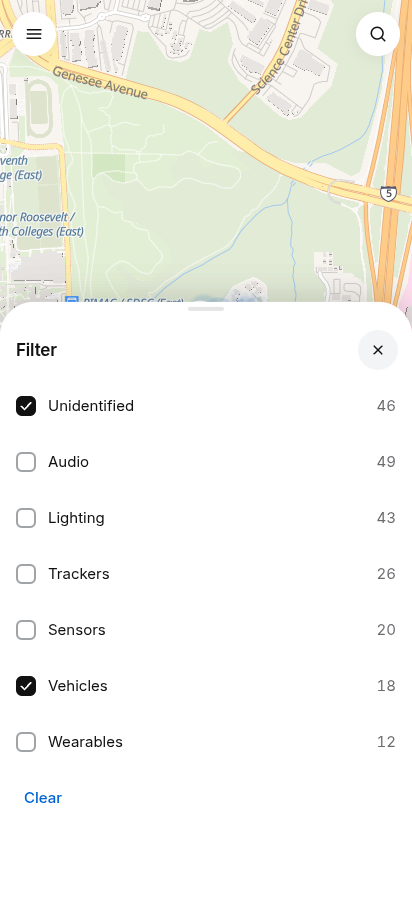
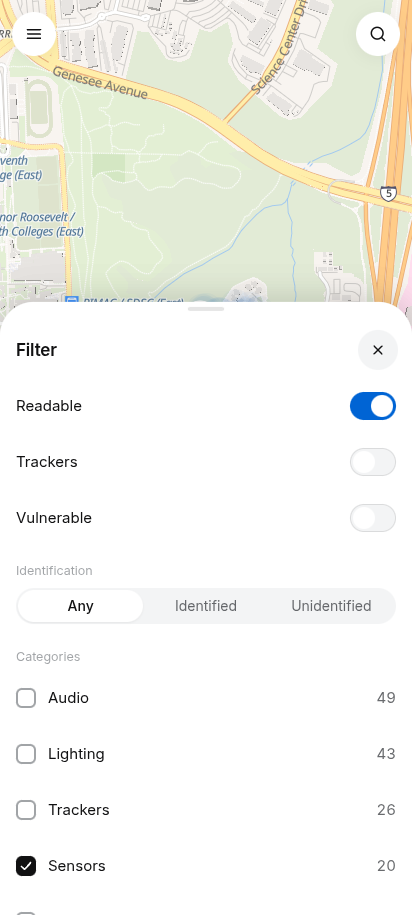
design/ui-v2: Filter button in the Discover header; preset chips All / Readable / Trackers / Vulnerable; new Filter sheet
The Filter button (the view switch's IconButton, funnel) sits in the header's right column, mirroring the view
switch and centered under the search button; with any filter on it takes the selected style and a count. It
pushes the Filter sheet in both views. The list view's chip row is All plus the curated presets (Readable: the
wiki page has a decoder; Trackers; Vulnerable: the page links a known vulnerability), multi-select, AND with
each other and with the sheet; All clears everything. The Filter sheet: the presets as switches (synced with
the chips), Identification [Any | Identified | Unidentified], Categories (checkboxes with counts, any-of, by
count), Clear; it updates in place and applies live. data.js: readable / vulnerable product flags (Govee,
Xiaomi, SwitchBot; Tesla) on devices; getCategoryCounts(scope, { hideUnnamedApple }). Card and sheet counts
respect the display filter (G-12). Filters reset when the session view changes.

diff --git a/cluetooth-android/design/ui-v2/app.js b/cluetooth-android/design/ui-v2/app.js
@@ -113,18 +113,23 @@
     /** Chip and ChipRow. */
     chip: ({ label, on, action, value }) =>
       `<button class="chip ${on ? "on" : ""}" data-action="${action}" data-value="${esc(value)}" aria-pressed="${on}">${esc(label)}</button>`,
-    /** The list view's chip row: the Filter chip (round; selected style and a count while categories are selected),
-     *  All, then cats (Unidentified, selected categories outside the top ones, the top ones). selected: category ids. */
-    chipRow: (cats, selected, cls = "") =>
-      `<div class="chips ${cls}"><button class="chip chip-icon ${selected.length ? "on" : ""}" data-action="filter-open" aria-label="Filter${selected.length ? `, ${selected.length} selected` : ""}">${icon("filter")}${selected.length ? `<span class="chip-count">${selected.length}</span>` : ""}</button>${
-        UI.chip({ label: "All", on: !selected.length, action: "dev-cat", value: "all" })}${
-        cats.map((c) => UI.chip({ label: c.label, on: selected.includes(c.id), action: "dev-cat", value: c.id })).join("")}</div>`,
-    /** The Filter sheet's body: every category of the scope as a checkbox row with its device count, and Clear. */
-    filterList: (cats, selected) => `<div class="filter-list">${cats.map((c) => `
-      <button class="item filter-item" role="checkbox" aria-checked="${selected.includes(c.id)}" data-action="dev-cat" data-value="${c.id}">
+    /** The list view's chip row: All (on while no filter at all; tapping it clears every filter), then the preset
+     *  filters as toggles. on: the preset ids that are on. */
+    chipRow: (on, all, cls = "") =>
+      `<div class="chips ${cls}">${UI.chip({ label: "All", on: all, action: "filter-preset", value: "all" })}${
+        PRESETS.map((p) => UI.chip({ label: p.label, on: on.includes(p.id), action: "filter-preset", value: p.id })).join("")}</div>`,
+    /** The Filter sheet's body: the presets as switches, Identification, the categories of the scope as checkbox
+     *  rows with their device counts (cats: [{ id, label, count }]), and Clear. f: { presets, ident, cats }. */
+    filterSheet: (cats, f) => `<div class="filter-sheet">
+      ${PRESETS.map((p) => `<div class="item"><span class="item-text"><span class="item-title">${p.label}</span></span>${UI.switch(f.presets.includes(p.id), "filter-preset", p.id)}</div>`).join("")}
+      <div class="sect">Identification</div>
+      <div class="filter-seg">${UI.segmented([{ id: "any", label: "Any" }, { id: "identified", label: "Identified" }, { id: "unidentified", label: "Unidentified" }], f.ident, "filter-ident")}</div>
+      <div class="sect">Categories</div>
+      <div class="filter-list">${cats.map((c) => `
+      <button class="item filter-item" role="checkbox" aria-checked="${f.cats.includes(c.id)}" data-action="filter-cat" data-value="${c.id}">
         <span class="check" aria-hidden="true"><svg viewBox="0 0 24 24"><path d="M5 12.5 10 17l9-10"/></svg></span>
         <span class="item-text"><span class="item-title">${esc(c.label)}</span></span><span class="item-end">${c.count}</span></button>`).join("")}
-      </div><div class="filter-foot"><button class="text-btn" data-action="filter-clear">Clear</button></div>`,
+      </div><div class="filter-foot"><button class="text-btn" data-action="filter-clear">Clear</button></div></div>`,
 
     /** Sparkline: the last minute, 30 samples. */
     sparkline: (h) => {
@@ -187,10 +192,12 @@
     /** DiscoverHead: the view switch (it shows the view it switches TO), then Nearby / All while recording, or
      *  This area / All for history and All sessions.
      */
-    discoverHead: ({ view, live, mode, hist = "all" }) => `${UI.iconButton({ name: view === "list" ? "grid" : "list", label: view === "list" ? "Show categories" : "Show the device list", action: "disc-view" })}
+    discoverHead: ({ view, live, mode, hist = "all", filters = 0 }) => `${UI.iconButton({ name: view === "list" ? "grid" : "list", label: view === "list" ? "Show categories" : "Show the device list", action: "disc-view" })}
          ${live ? UI.segmented([{ id: "nearby", label: "Nearby" }, { id: "all", label: "All" }], mode, "disc-mode")
            : UI.segmented([{ id: "area", label: "This area" }, { id: "all", label: "All" }], hist, "hist-mode")}
-         <span></span>`,
+         <span class="disc-filter">${UI.filterButton(filters)}</span>`,
+    /** FilterButton: the view switch's IconButton with a funnel; selected style and a count while filters are on. */
+    filterButton: (n) => `<button class="ib neutral filter-btn ${n ? "on" : ""}" data-action="filter-open" aria-label="Filter${n ? `, ${n} active` : ""}">${icon("filter")}${n ? `<span class="count-badge">${n}</span>` : ""}</button>`,
 
     /** ProductView: a product sheet's content; the background map shows the product's points. */
     productView: (p, rows) => `
@@ -304,6 +311,12 @@
   const ME = D.getMyLocation();
   const locationText = () => `${ME.lat.toFixed(5)}, ${ME.lon.toFixed(5)} ±${ME.accuracy} m`;
   const hiddenByFilter = (d) => S.settings.hideUnnamedApple && d.company === 76 && !d.name;
+  /** The preset filters (the list view's chips): curated, each a test on a device. */
+  const PRESETS = [
+    { id: "readable", label: "Readable", test: (d) => d.readable },     // its wiki page has a decoder
+    { id: "trackers", label: "Trackers", test: (d) => d.category === "trackers" },
+    { id: "vulnerable", label: "Vulnerable", test: (d) => d.vulnerable }, // its wiki page links a known vulnerability
+  ];
 
   // ---- Formatting ----
   const MONTHS = ["Jan", "Feb", "Mar", "Apr", "May", "Jun", "Jul", "Aug", "Sep", "Oct", "Nov", "Dec"];
@@ -364,17 +377,18 @@
     const sig = `${S.discView}|${S.live}`, seg = $(".seg", head);
     if (head.dataset.sig === sig && seg) setSegValue(seg, S.live ? mode : S.histMode);
     else { head.innerHTML = UI.discoverHead({ view: S.discView, live: S.live, mode, hist: S.histMode }); head.dataset.sig = sig; }
+    $(".disc-filter", head).innerHTML = UI.filterButton(filterCount());
     if (S.discView === "list") {
       const left = $(".chips", chips) ? $(".chips", chips).scrollLeft : 0; // a chip tap keeps the row where it was
-      chips.innerHTML = UI.chipRow(chipCats(), S.devCats, "inline");
+      chips.innerHTML = UI.chipRow(S.filter.presets, !filterCount(), "inline");
       $(".chips", chips).scrollLeft = left;
       body.innerHTML = `<div class="rows">${sessionRows(mode)}</div>`;
     } else {
       chips.innerHTML = "";
-      const area = areaCounts();
+      const c = cardCounts();
       const groups = D.getProducts(mode, S.session)
-        .map((g) => ({ ...g, products: g.products.filter((p) => !area || area.count[p.id])
-          .map((p) => (area ? { ...p, count: area.count[p.id], inRange: Math.min(p.inRange, area.live[p.id] || 0) } : p)) }))
+        .map((g) => ({ ...g, products: g.products.filter((p) => (mode === "all" ? c.count[p.id] : c.live[p.id]))
+          .map((p) => ({ ...p, count: c.count[p.id], inRange: Math.min(p.inRange, c.live[p.id] || 0) })) }))
         .filter((g) => g.products.length);
       body.innerHTML = groups.map(UI.categorySection).join("") || `<div class="empty">No products match</div>`;
     }
@@ -451,19 +465,19 @@
   function sessionRows(mode) {
     const byAddr = Object.fromEntries(D.getSessionDevices(S.session).map((d) => [d.addr, d]));
     return (S.area ? S.areaOrder : S.order).map((a) => byAddr[a])
-      .filter((d) => d && inArea(d.addr) && !hiddenByFilter(d) && (mode === "all" || !d.stale) && (!S.devCats.length || S.devCats.includes(d.category)))
+      .filter((d) => d && inArea(d.addr) && !hiddenByFilter(d) && (mode === "all" || !d.stale) && matchesFilter(d))
       .map((d) => UI.deviceRow(d, { spark: S.live })).join("") || `<div class="empty">No matching devices</div>`;
   }
   // ---- "This area" (history and All sessions): the sheets list only devices whose point is in the viewport ----
   // It re-filters once each time the map comes to rest after the user dragged or zoomed it (not during the move,
   // not after the app's own camera moves). Rows still in view keep their order, rows that left hide, new ones append.
   const inArea = (addr) => !S.area || S.area.has(addr);
-  /** Per product, how many of the session's devices are in the area (null when This area is off). */
-  function areaCounts() {
-    if (!S.area) return null;
+  /** Per product, how many of the session's devices the cards count: in the area (when This area is on), not hidden
+   *  by the display filter (G-12), matching the filters. live: those not stale. */
+  function cardCounts() {
     const count = {}, live = {};
     for (const d of D.getSessionDevices(S.session)) {
-      if (!S.area.has(d.addr)) continue;
+      if (!inArea(d.addr) || hiddenByFilter(d) || !matchesFilter(d)) continue;
       const k = d.product || "unidentified";
       count[k] = (count[k] || 0) + 1;
       if (!d.stale) live[k] = (live[k] || 0) + 1;
@@ -722,7 +736,7 @@
     session: null, live: false, order: [], layout: null,
     recorder: "idle", paused: false, recMap: null,
     discoverMode: "nearby", discView: "categories",
-    devCats: [], topCats: [], search: null, page: null, locZoomed: false, // search: { query, bbox, order, ref, moved, saved } in search state; page: the search page's scope
+    filter: null, search: null, page: null, locZoomed: false, // search: { query, bbox, order, ref, moved, saved } in search state; page: the search page's scope
     histMode: "all", area: null, areaOrder: [], // area: the devices in view while "This area" is on
     settings: { ...SETTINGS }, stack: [], map: null,
     ob: 0, obAuto: true, obAllowed: [false, false, false],
@@ -791,7 +805,7 @@
     S.histMode = "all"; S.area = null; S.areaOrder = []; // per session view
     if (S.search) { S.search = null; phone.classList.remove("searching"); $("#search-bar").innerHTML = ""; } // a new view leaves search
     S.order = id ? D.getSessionDevices(id).sort((a, b) => b.rssi - a.rssi).map((d) => d.addr) : []; // sorted once
-    S.topCats = id ? D.getCategoryCounts(id).filter((c) => c.id !== "unidentified").slice(0, TOP_CATS).map((c) => c.id) : []; // fixed for the view
+    S.filter = noFilter(); // per session view
     const sess = id && D.getRecording(id);
     S.map.setSession(sess, id ? sessionPoints() : []);
     renderDiscover();
@@ -799,11 +813,16 @@
     const r = $(".recorder", phone);
     $(".rec-meta", r).textContent = S.recorder === "idle" ? "" : `${D.getCurrentRecording().devices} devices · ${locationText()}`;
   }
-  /** The chip row's categories: Unidentified, the selected ones outside the top ones (in the order picked), the top
-   *  ones (by device count, fixed per session view, so the row never reorders by itself). */
-  const TOP_CATS = 4;
-  const catOf = (id) => CATS.find((c) => c.id === id);
-  const chipCats = () => ["unidentified", ...S.devCats.filter((id) => id !== "unidentified" && !S.topCats.includes(id)), ...S.topCats].map(catOf);
+  /** The filters: the presets (chip row and the sheet's switches), Identification and the categories (the sheet).
+   *  Presets combine with AND, the categories with any-of, and the three groups with AND. */
+  const noFilter = () => ({ presets: [], ident: "any", cats: [] });
+  const filterCount = () => S.filter.presets.length + (S.filter.ident !== "any") + S.filter.cats.length;
+  function matchesFilter(d) {
+    const f = S.filter;
+    return f.presets.every((id) => PRESETS.find((p) => p.id === id).test(d))
+      && (f.ident === "any" || (f.ident === "identified") === !!d.product)
+      && (!f.cats.length || f.cats.includes(d.category));
+  }
   const sessionPoints = () => D.getSessionDevices(S.session).filter((d) => !S.search || S.search.order.includes(d.addr)).map((d) => ({ addr: d.addr, at: d.best, rssi: d.rssi, category: d.category, product: d.product || "unidentified" }));
 
   /** The recorder: "idle" (FAB), "capsule" or "panel". The capsule's width and the panel's height are measured. */
@@ -981,8 +1000,15 @@
       body.innerHTML = UI.deviceBody(d, { tab: entry.props.tab, gatt: null, chartW: phone.clientWidth - 32 });
       $("#dev-tab", body).innerHTML = entry.props.tab === "adv" ? UI.advertising(d) : gattTabNow(d.addr);
     } else if (entry.kind === "filter") {
-      top.innerHTML = UI.sheetTop(`<span class="sheet-kicker">Filter</span>`);
-      body.innerHTML = UI.filterList(entry.props.cats, S.devCats);
+      const f = S.filter, fs = $(".filter-sheet", body);
+      if (!fs) {
+        top.innerHTML = UI.sheetTop(`<span class="sheet-kicker">Filter</span>`);
+        body.innerHTML = UI.filterSheet(entry.props.cats, f);
+      } else {
+        fs.querySelectorAll('[data-action="filter-preset"]').forEach((b) => b.setAttribute("aria-checked", f.presets.includes(b.dataset.value)));
+        setSegValue($(".seg", fs), f.ident);
+        fs.querySelectorAll(".filter-item").forEach((b) => b.setAttribute("aria-checked", f.cats.includes(b.dataset.value)));
+      }
     } else {
       const p = D.getProduct(entry.props.id);
       top.innerHTML = UI.sheetTop(`<span class="sheet-kicker">${esc((CATS.find((c) => c.id === p.category) || { label: "Unidentified" }).label)}</span>`);
@@ -1355,15 +1381,22 @@
       const go = $(".gatt-go", tab);
       requestAnimationFrame(() => ACTIONS["gatt-go"](go)); // straight to the prompt
     },
-    // "All" clears the category filter; a category toggles (a device matches any selected category)
-    "dev-cat": (el) => {
-      const id = el.dataset.value;
-      S.devCats = id === "all" ? [] : S.devCats.includes(id) ? S.devCats.filter((c) => c !== id) : [...S.devCats, id];
+    // a preset (chip or switch) toggles; "All" clears every filter. Changes apply live.
+    "filter-preset": (el) => {
+      const id = el.dataset.value, p = S.filter.presets;
+      if (id === "all") S.filter = noFilter();
+      else S.filter.presets = p.includes(id) ? p.filter((x) => x !== id) : [...p, id];
       refreshSheets();
     },
-    "filter-clear": () => { S.devCats = []; refreshSheets(); },
-    // the categories (and counts) of the scope, taken when the sheet opens
-    "filter-open": () => Stack.push("filter", { cats: D.getCategoryCounts(S.session) }),
+    "filter-ident": (el) => { S.filter.ident = el.dataset.value; refreshSheets(); },
+    "filter-cat": (el) => {
+      const id = el.dataset.value, c = S.filter.cats;
+      S.filter.cats = c.includes(id) ? c.filter((x) => x !== id) : [...c, id];
+      refreshSheets();
+    },
+    "filter-clear": () => { S.filter = noFilter(); refreshSheets(); },
+    // the categories of the scope and their counts (without hidden devices), taken when the sheet opens
+    "filter-open": () => Stack.push("filter", { cats: D.getCategoryCounts(S.session, { hideUnnamedApple: S.settings.hideUnnamedApple }).filter((c) => c.id !== "unidentified") }),
     recorder: () => { if (S.recorder === "idle") startRecording(); },
     "recorder-open": () => { if (S.recorder === "capsule") setRecorder("panel"); },
     "recorder-close": () => setRecorder("capsule"),
@@ -1574,10 +1607,12 @@
         ${cell("panel", UI.recorder({ state: "panel", paused: false, time: "12:34", meta: "26 devices · 32.88012, -117.23421 ±8 m", mapId: "g-rec-map", cls: "static" }), "width: 412px; height: 260px")}
       </div>
       ${sect("ChipRow", ".chips / .chip · --chip-h, --chip-bg, --chip-fg, --chip-on-bg, --chip-on-fg")}
-      <div class="g-row">${cell("All selected", UI.chipRow(CATS.slice(0, 4), [], "static"), "width: 412px; overflow: hidden")}
-        ${cell("Audio and Unidentified selected", UI.chipRow(CATS.slice(0, 4), ["unidentified", "audio"], "static"), "width: 412px; overflow: hidden")}</div>
-      ${sect("Filter sheet", ".filter-item (role checkbox) / .check · --check-size, --check-r, --chip-on-bg; .text-btn Clear")}
-      <div class="g-row">${cell("two selected", `<section class="sheet static stack-sheet"><div class="handle"></div><div class="sheet-top">${UI.sheetTop(`<span class="sheet-kicker">Filter</span>`)}</div><div class="sheet-body">${UI.filterList(D.getCategoryCounts("all"), ["unidentified", "audio"])}</div></section>`, "width: 412px; padding: 0")}</div>
+      <div class="g-row">${cell("All (no filter)", UI.chipRow([], true, "static"), "width: 412px; overflow: hidden")}
+        ${cell("Readable and Trackers on", UI.chipRow(["readable", "trackers"], false, "static"), "width: 412px; overflow: hidden")}</div>
+      ${sect("FilterButton", ".filter-btn (.ib) in the Discover header's right column · .on = --chip-on-bg; .count-badge --count-badge, --blue")}
+      <div class="g-row">${cell("off", UI.filterButton(0))}${cell("3 filters", UI.filterButton(3))}</div>
+      ${sect("Filter sheet", "switches (presets), .seg Identification, .filter-item (role checkbox) / .check · --check-size, --check-r, --chip-on-bg; .text-btn Clear")}
+      <div class="g-row">${cell("Trackers, Identified, Audio", `<section class="sheet static stack-sheet"><div class="handle"></div><div class="sheet-top">${UI.sheetTop(`<span class="sheet-kicker">Filter</span>`)}</div><div class="sheet-body">${UI.filterSheet(D.getCategoryCounts("all", { hideUnnamedApple: true }).filter((c) => c.id !== "unidentified"), { presets: ["trackers"], ident: "identified", cats: ["audio"] })}</div></section>`, "width: 412px; padding: 0")}</div>
       ${sect("DeviceRow", ".row · --row-h, --spark-w, --rssi-w, --rssi-strong/fair/weak, --dim")}
       <div class="g-row">
         ${cell("normal", UI.deviceRow(normal), "width: 412px; padding: 0")}
@@ -1640,7 +1675,7 @@
       ${sect("Discover sheet", ".disc-sheet · three snaps: collapsed (peek), --discover-sheet-half (67%), --discover-sheet-full; view switch shows the view it switches TO")}
       <div class="g-row">
         ${cell("live, categories", `<section class="sheet static disc-sheet"><div class="handle"></div><div class="disc-head">${UI.discoverHead({ view: "categories", live: true, mode: "nearby" })}</div><div class="sheet-body">${UI.categorySection({ ...groups[1], products: groups[1].products.slice(0, 2) })}</div></section>`, "width: 412px; padding: 0")}
-        ${cell("live, list", `<section class="sheet static disc-sheet"><div class="handle"></div><div class="disc-head">${UI.discoverHead({ view: "list", live: true, mode: "all" })}</div><div class="disc-chips">${UI.chipRow(CATS.slice(0, 5), [], "inline")}</div><div class="sheet-body"><div class="rows">${devs.slice(0, 3).map((d) => UI.deviceRow(d)).join("")}</div></div></section>`, "width: 412px; padding: 0")}
+        ${cell("live, list", `<section class="sheet static disc-sheet"><div class="handle"></div><div class="disc-head">${UI.discoverHead({ view: "list", live: true, mode: "all" })}</div><div class="disc-chips">${UI.chipRow([], true, "inline")}</div><div class="sheet-body"><div class="rows">${devs.slice(0, 3).map((d) => UI.deviceRow(d)).join("")}</div></div></section>`, "width: 412px; padding: 0")}
         ${cell("history, categories: This area / All", `<section class="sheet static disc-sheet"><div class="handle"></div><div class="disc-head">${UI.discoverHead({ view: "categories", live: false })}</div></section>`, "width: 412px; padding: 0")}
         ${cell("history, list", `<section class="sheet static disc-sheet"><div class="handle"></div><div class="disc-head">${UI.discoverHead({ view: "list", live: false })}</div></section>`, "width: 412px; padding: 0")}
         ${cell("product sheet", `<section class="sheet static stack-sheet"><div class="handle"></div><div class="sheet-top">${UI.sheetTop(`<span class="sheet-kicker">Lighting</span>`)}</div><div class="sheet-body">${UI.productView(D.getProduct("govee"), D.getProduct("govee").devices.slice(0, 2).map((d) => UI.deviceRow(d, { spark: false })).join(""))}</div></section>`, "width: 412px; padding: 0")}

diff --git a/cluetooth-android/design/ui-v2/data.js b/cluetooth-android/design/ui-v2/data.js
@@ -30,8 +30,10 @@
   CATEGORIES.unshift({ id: "unidentified", label: "Unidentified", icon: "unknown" });
 
   // ---- products (wiki families) ----
+  // readable: the wiki page has a decoder (the advertisement decodes without connecting);
+  // vulnerable: the page links a known vulnerability
   const PRODUCTS = [
-    { id: "govee", name: "Govee lighting and sensors", category: "lighting", company: null, service: "EC88",
+    { id: "govee", readable: true, name: "Govee lighting and sensors", category: "lighting", company: null, service: "EC88",
       description: "Govee and ihoment strip lights, bulbs and thermo-hygrometers.", places: 20, last: "just now" },
     { id: "airpods", name: "Apple AirPods and Beats (Proximity Pairing)", category: "audio", company: 76,
       description: "Apple and Beats earbuds and headphones announcing their case and battery state.", places: 64, last: "just now" },
@@ -41,9 +43,9 @@
       description: "Bose headphones advertising the Bose app service.", places: 11, last: "4 min ago" },
     { id: "hue", name: "Philips Hue Bluetooth lights", category: "lighting", company: null, service: "FE0F",
       description: "Hue bulbs and lamps that pair over Bluetooth without a bridge.", places: 3, last: "just now" },
-    { id: "xiaomi", name: "Xiaomi Mi Home BLE sensors (MiBeacon)", category: "sensors", company: null, service: "FE95",
+    { id: "xiaomi", readable: true, name: "Xiaomi Mi Home BLE sensors (MiBeacon)", category: "sensors", company: null, service: "FE95",
       description: "Xiaomi thermometers and sensors sending MiBeacon service data.", places: 9, last: "just now" },
-    { id: "switchbot", name: "SwitchBot Meter and Hub sensors", category: "sensors", company: 2409, service: "FD3D",
+    { id: "switchbot", readable: true, name: "SwitchBot Meter and Hub sensors", category: "sensors", company: 2409, service: "FD3D",
       description: "SwitchBot meters advertising temperature and humidity.", places: 4, last: "just now" },
     { id: "tile", name: "Tile trackers", category: "trackers", company: null, service: "FEED",
       description: "Tile Mate, Slim and Pro item trackers.", places: 38, last: "just now" },
@@ -51,7 +53,7 @@
       description: "Samsung trackers broadcasting for SmartThings Find.", places: 26, last: "just now" },
     { id: "fitbit", name: "Fitbit and Google Pixel Watch wearables", category: "wearables", company: null, service: "FEAA",
       description: "Fitbit trackers and Pixel Watch advertising for phone sync.", places: 15, last: "2 min ago" },
-    { id: "tesla", name: "Tesla vehicle phone key", category: "vehicles", company: null, service: null,
+    { id: "tesla", vulnerable: true, name: "Tesla vehicle phone key", category: "vehicles", company: null, service: null,
       description: "Tesla cars advertising for phone-as-key.", places: 6, last: "just now" },
     // seen before only (All)
     { id: "inkbird", name: "Inkbird IBS-TH temperature and humidity sensors", category: "sensors", company: null, service: "FFF0",
@@ -310,6 +312,7 @@
   const clone = (x) => JSON.parse(JSON.stringify(x));
   const WIKI = "https://wirelesswiki.org/p/"; // the wiki's family page route (wiki-site src/pages/p/[id])
   const withProduct = (d) => ({ ...clone(d), productName: d.product ? PRODUCT[d.product].name : null,
+    readable: !!(d.product && PRODUCT[d.product].readable), vulnerable: !!(d.product && PRODUCT[d.product].vulnerable),
     wikiUrl: d.product ? WIKI + d.product : null,
     companyName: d.company != null ? COMPANY_NAMES[d.company] || null : null });
 
@@ -379,11 +382,16 @@
       });
     },
     /** The categories present in a scope (a session id, or "all"), with their device counts: Unidentified first,
-     *  then by count (ties in CATEGORIES order). [{ id, label, icon, count }] */
-    getCategoryCounts: (scope) => {
+     *  then by count (ties in CATEGORIES order). [{ id, label, icon, count }]. hideUnnamedApple: the display
+     *  filter (G-12) leaves out unnamed 0x004C devices. */
+    getCategoryCounts: (scope, { hideUnnamedApple = false } = {}) => {
       const r = session(scope), count = {};
       if (!r) return [];
-      for (const p of r.points) { const c = DEVICE[p.addr].category; count[c] = (count[c] || 0) + 1; }
+      for (const p of r.points) {
+        const d = DEVICE[p.addr];
+        if (hideUnnamedApple && d.company === 76 && !d.name) continue;
+        count[d.category] = (count[d.category] || 0) + 1;
+      }
       const present = CATEGORIES.filter((c) => count[c.id]).map((c) => ({ ...c, count: count[c.id] }));
       return clone([...present.filter((c) => c.id === "unidentified"), ...present.filter((c) => c.id !== "unidentified").sort((a, b) => b.count - a.count)]);
     },

diff --git a/cluetooth-android/design/ui-v2/components.css b/cluetooth-android/design/ui-v2/components.css
@@ -198,18 +198,20 @@ button { font: inherit; color: inherit; background: none; border: 0; padding: 0;
   transition: background-color var(--t-fast), color var(--t-fast);
 }
 .chip.on { background: var(--chip-on-bg); color: var(--chip-on-fg); font-weight: var(--weight-medium); }
-/* the Filter chip: a circle as tall as the chips; while categories are selected, the selected style and a count */
-.chip.chip-icon { position: relative; width: var(--chip-h); padding: 0; display: grid; place-items: center; }
-.chip-icon .icon { width: var(--chip-icon); height: var(--chip-icon); }
-.chip-count {
-  position: absolute; top: -5px; right: -5px; min-width: var(--chip-count);
-  height: var(--chip-count); padding: 0 4px; border-radius: var(--r-pill); display: grid; place-items: center;
+/* the Filter button (the Discover header's right column): the selected style and a count while filters are on;
+   the count sits inside the button's box, so the panel's rounded corner never clips it */
+.ib.neutral.filter-btn.on { background: var(--chip-on-bg); color: var(--chip-on-fg); }
+.filter-btn { position: relative; }
+.count-badge {
+  position: absolute; top: 0; right: 0; min-width: var(--count-badge);
+  height: var(--count-badge); padding: 0 4px; border-radius: var(--r-pill); display: grid; place-items: center;
   background: var(--blue); color: var(--on-blue); font-size: 11px; font-weight: var(--weight-medium); line-height: 1;
   font-variant-numeric: tabular-nums; box-shadow: 0 0 0 2px var(--panel);
 }
 
 /* ---------- Filter sheet: checkbox rows with device counts, Clear at the bottom ---------- */
 .filter-item { gap: 14px; }
+.filter-seg { padding: 4px var(--gutter) 8px; }
 .check { width: var(--check-size); height: var(--check-size); flex: none; border-radius: var(--check-r); box-shadow: inset 0 0 0 2px var(--t3); display: grid; place-items: center; transition: background-color var(--t-fast), box-shadow var(--t-fast); }
 .check svg { width: 16px; height: 16px; fill: none; stroke: var(--chip-on-fg); stroke-width: 2.5; stroke-linecap: round; stroke-linejoin: round; opacity: 0; transition: opacity var(--t-fast); }
 .filter-item[aria-checked="true"] .check { background: var(--chip-on-bg); box-shadow: none; }
@@ -478,6 +480,7 @@ button.item:active { background: var(--fill2); }
 .disc-head { flex: none; display: grid; grid-template-columns: 1fr auto 1fr; align-items: center; gap: 10px; padding: calc(var(--corner-btn) + var(--head-drop)) var(--corner-btn) 10px; touch-action: pan-x; cursor: grab; }
 /* headers: vertical moves drag the sheet (JS); a horizontal scroller in a header would keep its own pan */
 .disc-head > :first-child { justify-self: start; }
+.disc-head > .disc-filter { justify-self: end; }
 .disc-title { font-size: var(--title-size); font-weight: var(--title-weight); letter-spacing: -0.01em; }
 
 .disc-head .seg { width: 184px; }
@@ -487,8 +490,7 @@ button.item:active { background: var(--fill2); }
 .disc-head .seg button { height: calc(var(--sheet-header-h) - 4px); }
 .disc-head > *, .sheet-top > .ib { min-height: var(--sheet-header-h); }
 .disc-title { display: flex; align-items: center; height: var(--sheet-header-h); }
-/* room above the chips for the Filter chip's count (the row itself does not move) */
-.disc-chips .chips { position: static; padding: var(--chip-row-pad) var(--edge) 10px; margin-top: calc(-1 * var(--chip-row-pad)); }
+.disc-chips .chips { position: static; padding: 0 var(--edge) 10px; }
 .stack-sheet .hero { margin: 0 var(--edge); border-radius: var(--hero-r); } /* concentric with the sheet: inset --edge */
 .disc-sheet .prod-body .dev-product { font-size: var(--body-size); }
 .disc-sheet .search-slot { flex: none; }

diff --git a/cluetooth-android/design/ui-v2/tokens.css b/cluetooth-android/design/ui-v2/tokens.css
@@ -108,8 +108,7 @@
   --chip-pad: 14px;
   --chip-gap: 6px;
   --chip-row-pad: 6px;
-  --chip-icon: 18px;      /* the Filter chip's funnel */
-  --chip-count: 16px;     /* the Filter chip's count badge */
+  --count-badge: 16px;    /* the Filter button's count */
   --check-size: 20px;     /* the Filter sheet's checkbox */
   --check-r: 6px;
   --row-h: 64px;
